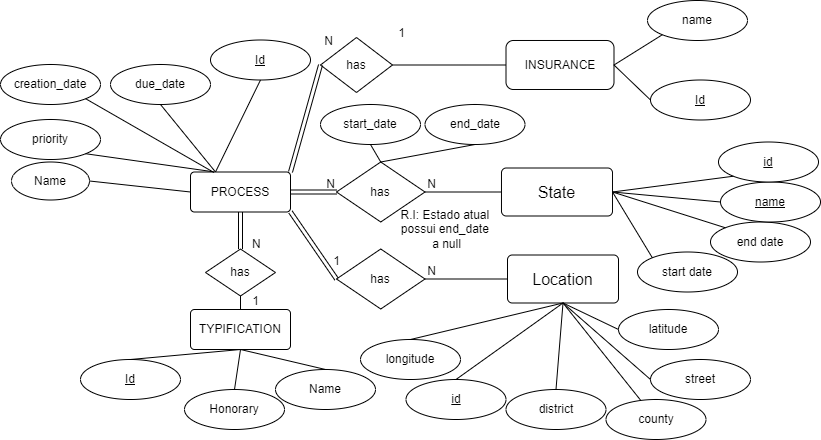
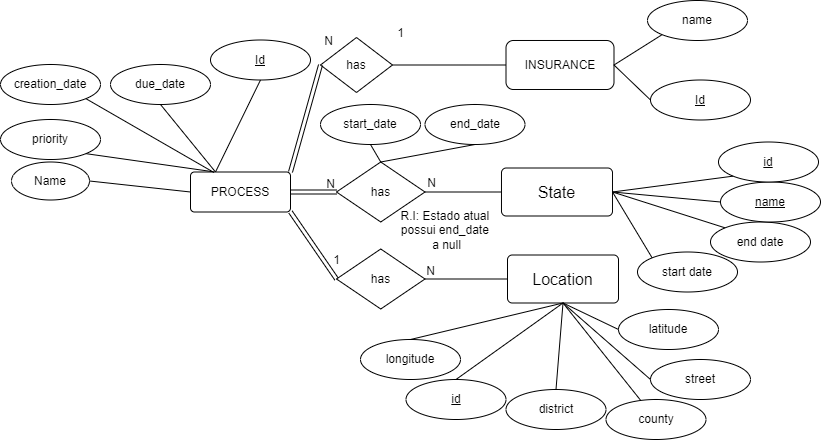
some changes and corrections before matutino checks

diff --git a/Docs/fase-beta-relatorio/solucao.tex b/Docs/fase-beta-relatorio/solucao.tex
@@ -36,7 +36,7 @@ A Figura~\ref{fig:modelo_ea_sem_atributos} demonstra o modelo Entidade-Associaç
   \begin{center}
     \includegraphics[width=1.1\textwidth]{./figures/modelo-ea-sem-atributos.png}
   \end{center}
-  \caption{Modelo entidade-associação.}\label{fig:modelo_ea_sem_atributos}
+  \caption{Modelo entidade-associação sem atributos.}\label{fig:modelo_ea_sem_atributos}
 \end{figure}
 \newpage
 
@@ -71,7 +71,7 @@ No que concerne à relação entre \textit{User} e \textit{Role}, um utilizador 
 
 
 
-No que respeita ao conjunto de entidades associado à gestão de processos, destacam-se as entidades \textit{Process}, \textit{Insurance}, \textit{State}, \textit{Location} e \textit{Typification}. Estas entidades são responsáveis por representar a informação principal associada aos processos geridos pela aplicação, bem como o seu enquadramento, estado e classificação.
+No que respeita ao conjunto de entidades associado à gestão de processos, destacam-se as entidades \textit{Process}, \textit{Insurance}, \textit{State} e \textit{Location}. Estas entidades são responsáveis por representar a informação principal associada aos processos geridos pela aplicação, bem como o seu enquadramento, estado e classificação.
 
 Relativamente à entidade \textit{Process}, esta constitui a entidade central do domínio da aplicação. É composta por um identificador único (\textit{id}), um nome (\textit{name}), um nível de prioridade (\textit{priority}), uma data de criação (\textit{creation date}), uma data prevista de conclusão (\textit{due date}).
 
@@ -79,18 +79,23 @@ No que concerne à entidade \textit{Insurance}, esta representa a seguradora ass
 
 Relativamente à entidade \textit{State}, esta é responsável por representar o estado atual de um processo ao longo do seu ciclo de vida. É composta por um identificador único (\textit{id}), um nome (\textit{name}). Os estados possíveis encontram-se limitados a um conjunto predefinido de valores, tais como \textit{Not Assigned}, \textit{Assigned}, \textit{On Going}, \textit{Waiting Approval Supervisor}, \textit{Approved by Supervisor}, \textit{Rejected by Supervisor}, \textit{Waiting Approval Manager}, \textit{Approved by Manager}, \textit{Rejected by Manager} e \textit{Canceled}.
 
-A entidade \textit{Location} representa a localização associada ao processo. Esta é composta por um identificador único (\textit{id}), o distrito (\textit{district}), o concelho (\textit{county}), a rua (\textit{street}), a latitude (\textit{latitude}) e a longitude (\textit{longitude}).
-
-Por fim, a entidade \textit{Typification} corresponde à tipificação associada ao processo, permitindo classificar o tipo de ocorrência ou situação registada. Esta entidade é composta por um identificador único (\textit{id}), um nome (\textit{name}) e um valor honorário (\textit{honorary}).
+Por fim, a entidade \textit{Location} representa a localização associada ao processo. Esta é composta por um identificador único (\textit{id}), o distrito (\textit{district}), o concelho (\textit{county}), a rua (\textit{street}), a latitude (\textit{latitude}) e a longitude (\textit{longitude}).
 
 No que respeita às relações entre estas entidades, um processo encontra-se associado a uma seguradora, podendo a mesma seguradora estar associada a múltiplos processos, caracterizando assim uma relação de um-para-muitos entre \textit{Insurance} e \textit{Process}.
 
 Relativamente à relação entre \textit{Process} e \textit{State}, um processo pode assumir diferentes estados ao longo do seu ciclo de vida, sendo possível que o mesmo estado esteja associado a diferentes processos. A cada relação entre estado e processo são armazenados a data de início (\textit{start date}) e a data de término (\textit{end date}).Esta relação permite representar a evolução e acompanhamento do processo dentro do sistema.
 
-No que concerne à relação entre \textit{Process} e \textit{Location}, cada processo encontra-se associado a uma localização específica, enquanto uma localização pode estar associada a múltiplos processos.
+Por último, no que concerne à relação entre \textit{Process} e \textit{Location}, cada processo encontra-se associado a uma localização específica, enquanto uma localização pode estar associada a múltiplos processos.
 
-Por último, relativamente à relação entre \textit{Process} e \textit{Typification}, cada processo possui uma tipificação associada, podendo a mesma tipificação ser utilizada por diferentes processos. Esta associação permite categorizar e organizar os processos segundo o tipo de ocorrência registada.
 
+\begin{figure}[h]
+  \begin{center}
+    \includegraphics[width=1.1\textwidth]{./figures/entidades-processo-caracteristicas.png}
+  \end{center}
+  \caption{Entidade processo e características.}\label{fig:entidades_processo_caracteristicas}
+\end{figure}
+
+\newpage
 
 \subsubsection{Processos, Relatório e Anexos}
 \textcolor{blue}{Pretendemos manter a estrutura para as restantes entidades e relações}
@@ -119,14 +124,7 @@ Esta abordagem permite deslocar determinadas regras críticas de consistência p
 
 
 
-\begin{figure}[h]
-  \begin{center}
-    \includegraphics[width=1.1\textwidth]{./figures/entidades-processo-caracteristicas.png}
-  \end{center}
-  \caption{Modelo entidade-associação.}\label{fig:entidades_processo_caracteristicas}
-\end{figure}
 
-\newpage
 
 
 

diff --git a/Docs/fase-beta-relatorio/main.tex b/Docs/fase-beta-relatorio/main.tex
@@ -191,6 +191,7 @@ A utilização destas ferramentas teve um caráter exclusivamente assistivo, ten
 \addcontentsline{toc}{chapter}{Refer\^{e}ncias}
 \bibliographystyle{unsrt}
 \bibliography{referencias}
+\textcolor{blue}{Referências precisam sofrer alterações, alguns autores estão errados}
 
 % Apêndices (opcional)
 %\appendix
